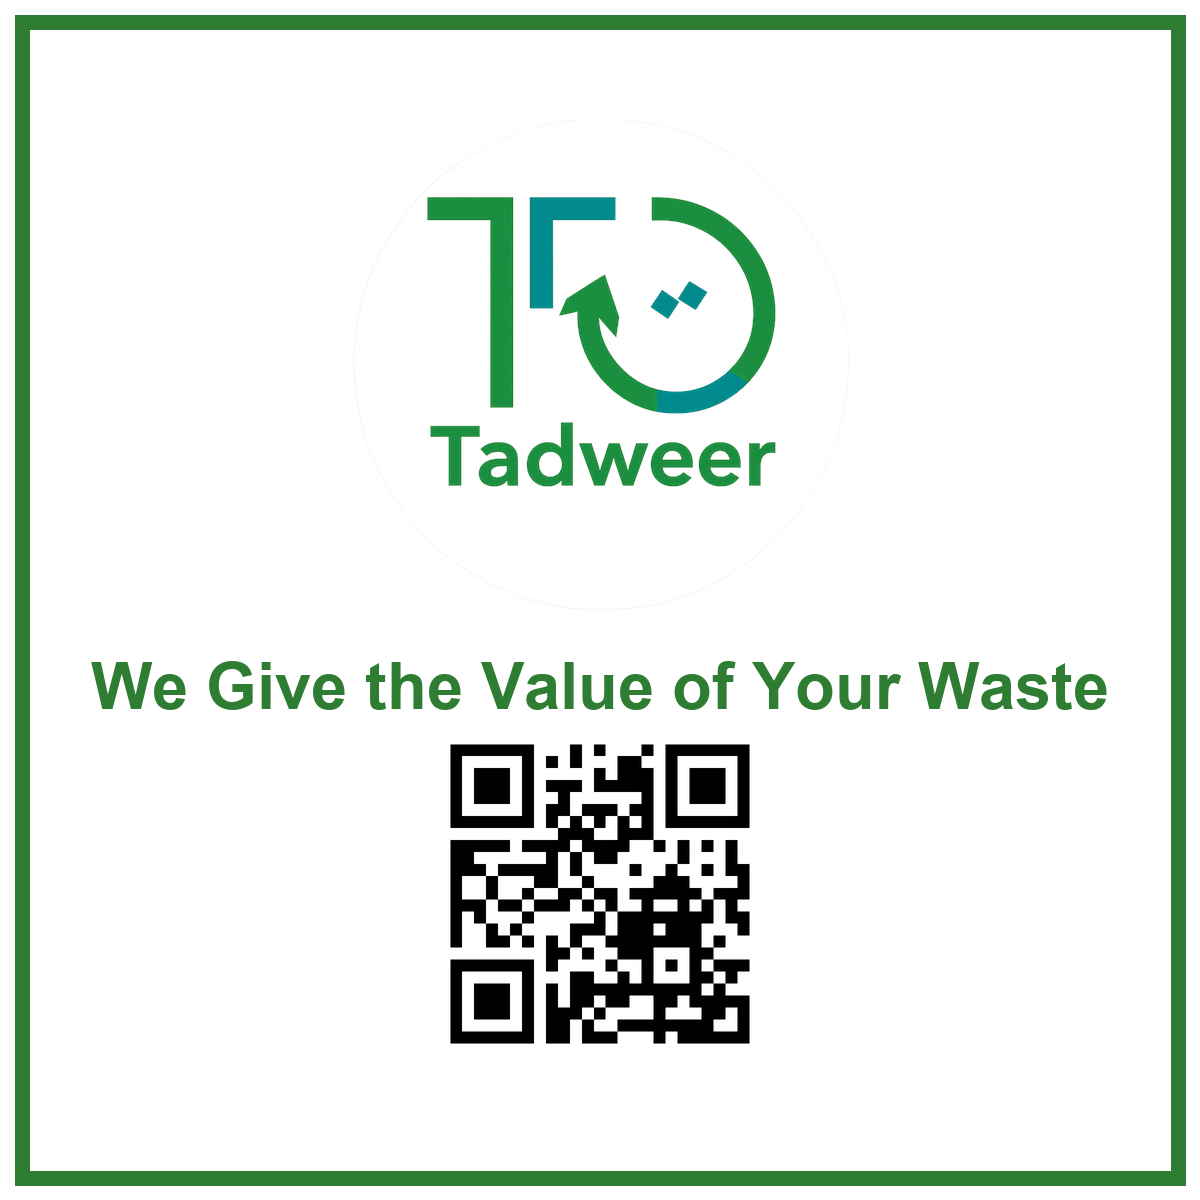
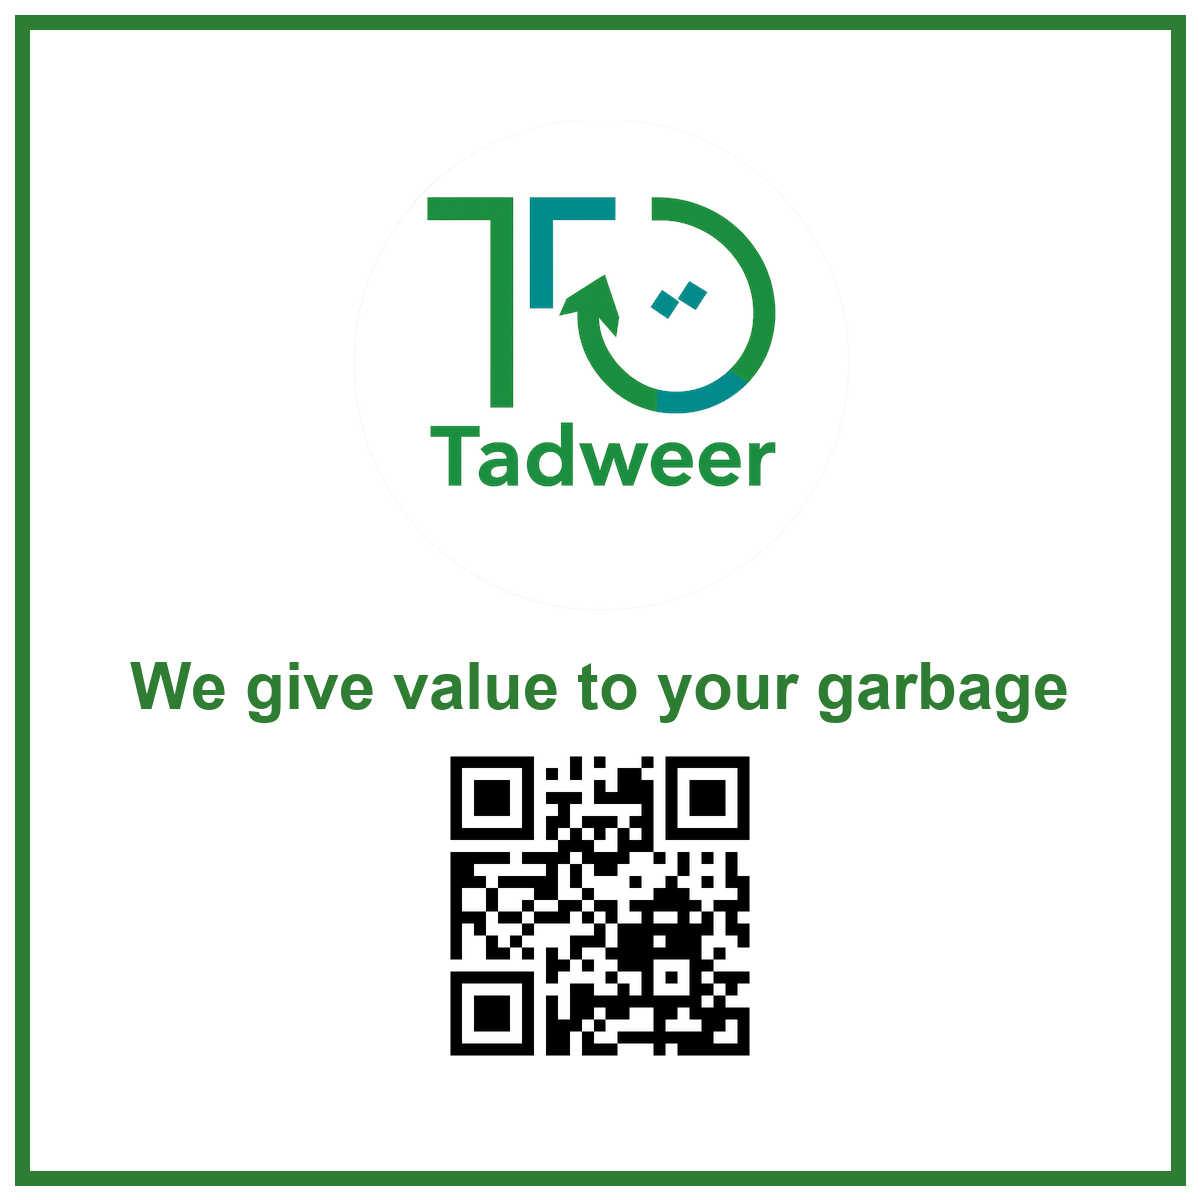
Update slogan to 'We give value to your garbage' and 'Today's waste, tomorrow's energy'

Changed region(s): [[0.0617, 0.555, 0.925, 0.8942]]

diff --git a/index.html b/index.html
@@ -40,8 +40,8 @@
     <section id="home" class="hero">
         <div class="hero-container">
             <div class="hero-content" data-aos="fade-right">
-                <h1>We Give the Value of Your Waste</h1>
-                <p>Seeking a waste-free environment. Today's residues, tomorrow’s energy.</p>
+                <h1>We give value to your garbage</h1>
+                <p>Seeking a waste-free environment. Today's waste, tomorrow's energy.</p>
                 <a href="#about" class="cta-button">Learn More</a>
             </div>
             <div class="hero-image" data-aos="fade-left">

diff --git a/tools/generate_sticker_variations.py b/tools/generate_sticker_variations.py
@@ -10,8 +10,8 @@ qr_path = os.path.join(images_dir, 'qr_website.png')
 # Constants
 WIDTH = 1200
 HEIGHT = 1200
-SLOGAN = "We Give the Value of Your Waste"
-TAGLINE = "Today's residues, tomorrow's energy"
+SLOGAN = "We give value to your garbage"
+TAGLINE = "Today's waste, tomorrow's energy"
 
 def create_sticker(filename, config):
     # Unpack config

diff --git a/tools/generate_sticker_variations_square.py b/tools/generate_sticker_variations_square.py
@@ -10,8 +10,8 @@ qr_path = os.path.join(images_dir, 'qr_website.png')
 # Constants
 WIDTH = 1200
 HEIGHT = 1200
-SLOGAN = "We Give the Value of Your Waste"
-TAGLINE = "Today's residues, tomorrow's energy"
+SLOGAN = "We give value to your garbage"
+TAGLINE = "Today's waste, tomorrow's energy"
 
 def create_sticker(filename, config):
     # Unpack config

diff --git a/tools/generate_sticker.py b/tools/generate_sticker.py
@@ -13,8 +13,8 @@ WIDTH = 1200
 HEIGHT = 1200
 BG_COLOR = (46, 125, 50)   # Primary green
 WHITE = (255, 255, 255)
-SLOGAN = "We Give the Value of Your Waste"
-TAGLINE = "Today's residues, tomorrow's energy"
+SLOGAN = "We give value to your garbage"
+TAGLINE = "Today's waste, tomorrow's energy"
 WEBSITE = "tadweer-tech-sy.org"
 
 # Create canvas
